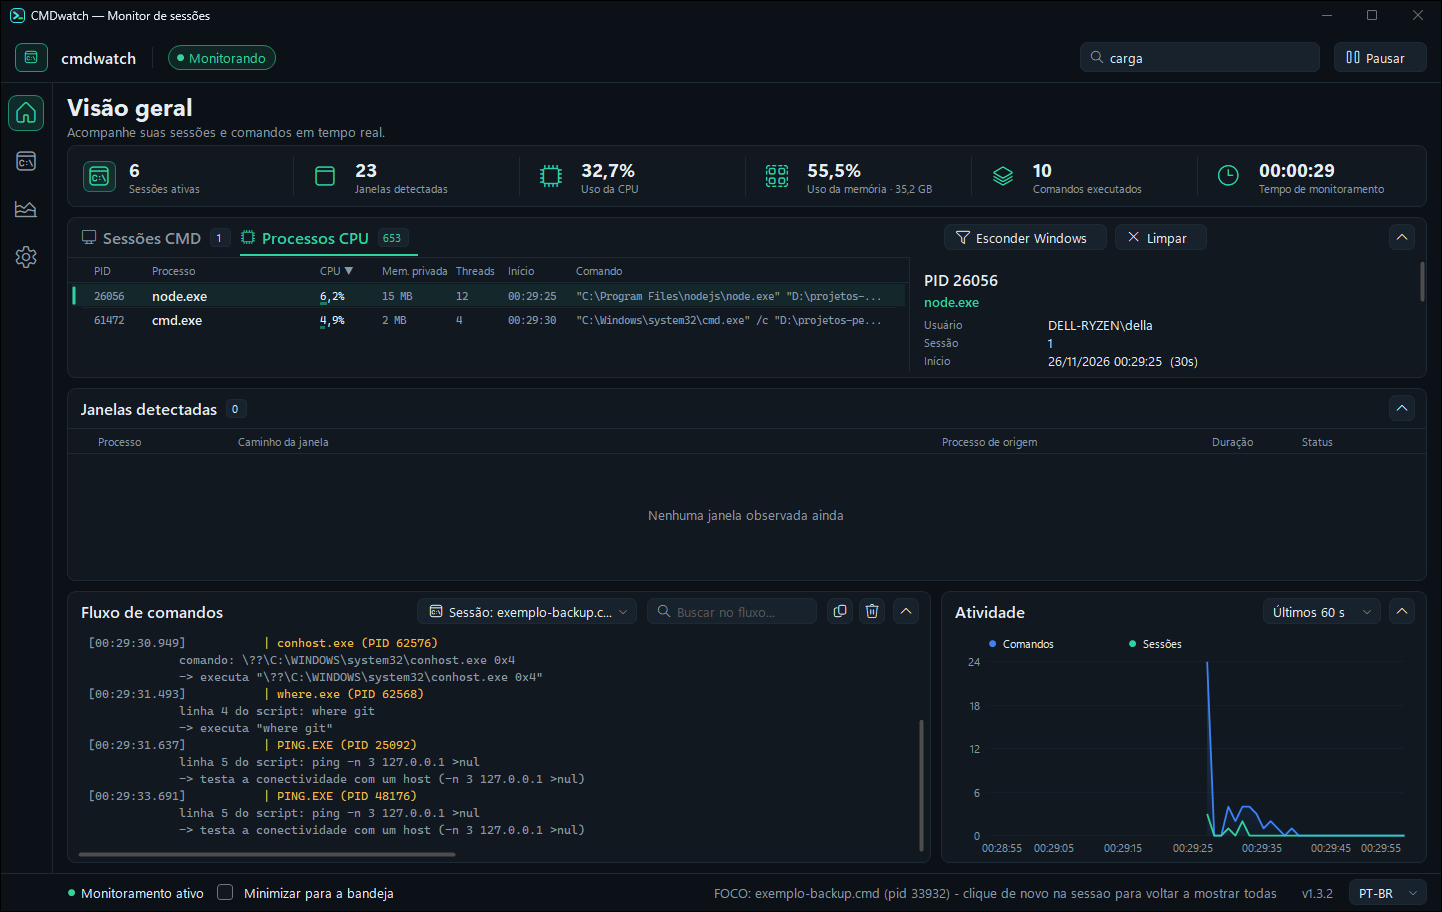
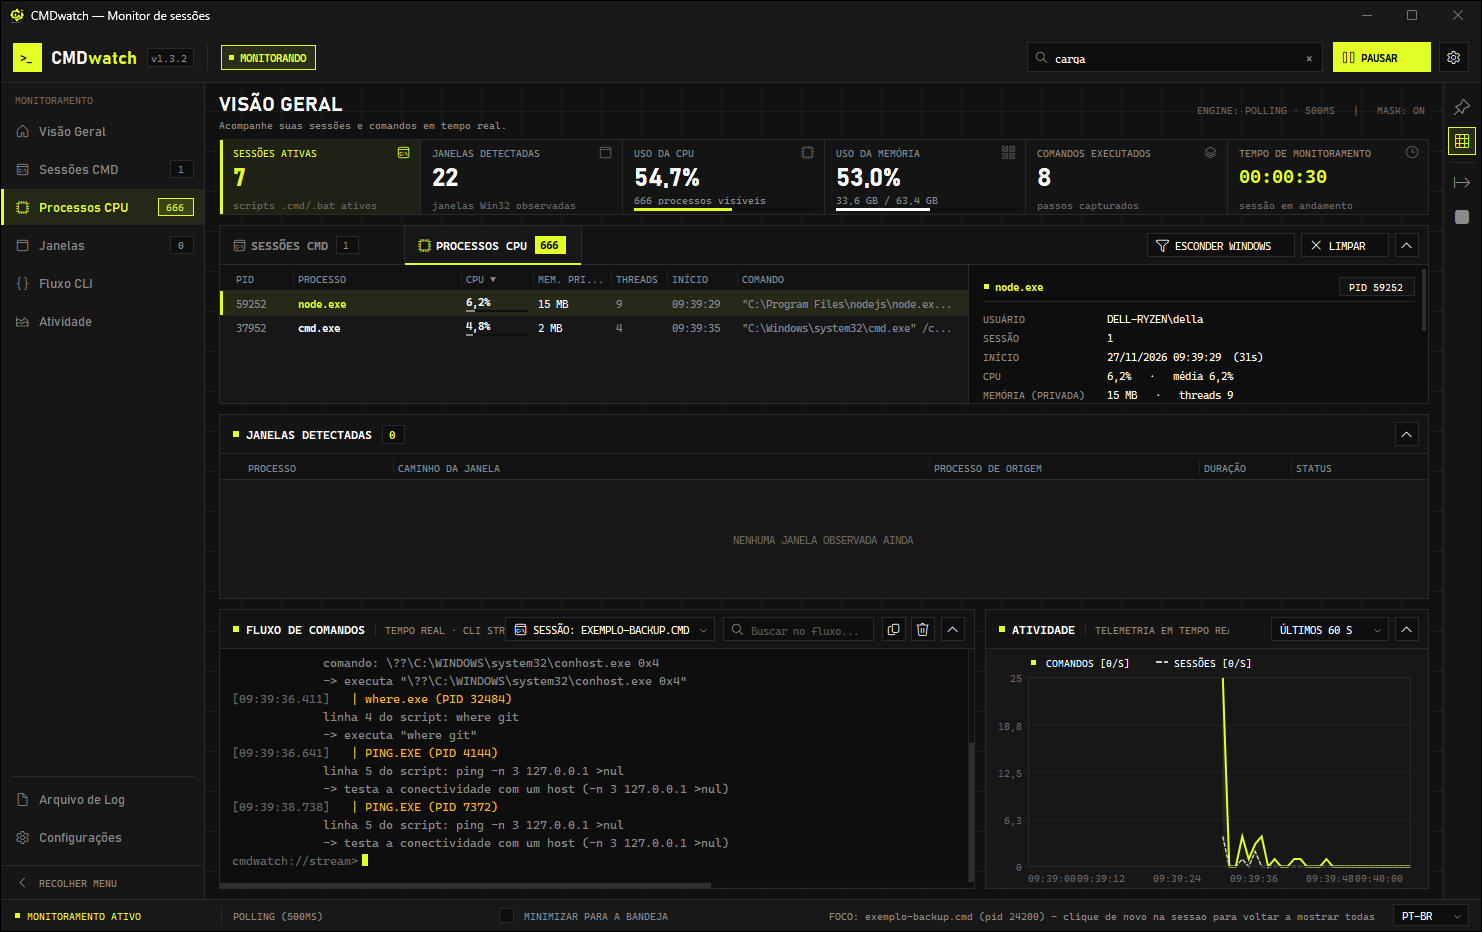
docs: README com a nova interface, icone e capturas regeneradas

diff --git a/README.pt-BR.md b/README.pt-BR.md
@@ -1,13 +1,15 @@
 <div align="center">
 
-# ⚡ CMDWatcher (cmdwatch)
+<img src="assets/icon-preview.png" alt="Ícone do CMDWatcher" width="128" />
+
+# CMDWatcher (cmdwatch)
 
 **Monitor de execução em tempo real e rastreador de janelas e scripts `.cmd`/`.bat` para Windows 10/11**
 
 [![Plataforma](https://img.shields.io/badge/Plataforma-Windows%2010%20%7C%2011-0078D6.svg?style=flat&logo=windows)](https://microsoft.com/windows)
 [![Runtime](https://img.shields.io/badge/Runtime-.NET%20Framework%204.8%20(Nativo)-512BD4.svg?style=flat&logo=dotnet)](https://dotnet.microsoft.com)
 [![Linguagem](https://img.shields.io/badge/Linguagem-C%23-239120.svg?style=flat&logo=csharp)](https://docs.microsoft.com/dotnet/csharp/)
-[![Binário](https://img.shields.io/badge/Binário-EXE%20Único%20(~600KB)%20%7C%20Portátil-success.svg?style=flat)](https://github.com/dellanio/cmdwatch/releases)
+[![Binário](https://img.shields.io/badge/Binário-EXE%20Único%20(~370KB)%20%7C%20Portátil-success.svg?style=flat)](https://github.com/dellanio/cmdwatch/releases)
 [![Privilégios](https://img.shields.io/badge/Privilégios-Sem%20Admin%20Obrigatório-blue.svg?style=flat)](https://github.com/dellanio/cmdwatch)
 [![Licença](https://img.shields.io/badge/Licença-MIT-green.svg?style=flat)](LICENSE)
 
@@ -24,7 +26,7 @@
 <div align="center">
   <table>
     <tr>
-      <td align="center"><b>Painel Gráfico em Tempo Real (Tema Escuro / Neon)</b></td>
+      <td align="center"><b>Painel Industrial em Tempo Real (Tema Escuro, estilo Hoody)</b></td>
       <td align="center"><b>Encerramento Seguro de Processos com Confirmação</b></td>
     </tr>
     <tr>
@@ -109,7 +111,8 @@ O **CMDWatcher** (`cmdwatch`) é um monitor leve e sem dependências para Window
 - 🙈 **Esconder os processos do Windows:** o botão "Esconder Windows" tira da lista tudo que é do sistema (`C:\Windows` e os serviços protegidos) e deixa só o que você instalou por fora — 635 processos viram 356 numa máquina comum, em ~15 ms na primeira vez e nada depois.
 - 📐 **Painel ajustável:** as colunas das tabelas (nas duas abas) e a divisória entre a lista e o detalhe podem ser redimensionadas arrastando com o mouse.
 - 📦 **Instala pelo Scoop e pelo winget:** os dois gerenciadores entregam o executável **sem** o aviso do SmartScreen e sem pedir instalação — o `cmdwatch` fica no `PATH`.
-- 🎨 **Interface Neon Customizada:** Construída em GDI+ puro sem frameworks pesados, com suporte a tema escuro/claro, busca em tempo real, ordenação de colunas e minimização para a Área de Notificação (Tray).
+- 🎨 **Interface Industrial (estilo Hoody):** GDI+ puro, plana e de cantos retos — destaque amarelo ácido `#E2FF26` sobre fundo grafite, bordas estruturais de 1 px, barra lateral retrátil com contadores ao vivo, barra superior com busca global e Pausar/Retomar, e faixa de indicadores (sessões, janelas, CPU, memória, comandos, tempo ativo). Escuro por padrão; há uma variante clara de alto contraste com `CMDWATCH_TEMA=claro`.
+- 🧰 **Utilitários reais, nada simulado:** um trilho à direita e uma gaveta de configurações com **Fixar no topo** (pin), **grade arquitetônica 40×40 px**, **Exportar log** (salva o fluxo atual) / **Abrir log** e **Minimizar para a bandeja**. Cada escolha é lembrada entre execuções.
 
 ---
 
@@ -136,7 +139,7 @@ flowchart TD
     end
 
     subgraph Output ["Interfaces do Usuário"]
-        GUI["Dashboard Visual Neon (WinForms / GDI+)"]
+        GUI["Dashboard Industrial (WinForms / GDI+)"]
         CLI["CLI Host (monitor / analyze / trace)"]
         JSONL["Log Estruturado cmdwatch-log.jsonl"]
     end
@@ -157,7 +160,7 @@ flowchart TD
 ```
 
 - **Linguagem:** C# (.NET Framework 4.8)
-- **UI Toolkit:** Windows Forms com renderização sob demanda GDI+ (Dark / Light)
+- **UI Toolkit:** Windows Forms com renderização GDI+ sob demanda (tema escuro estilo Hoody, variante clara sob pedido) — sem DLLs extras
 - **APIs Nativas:** `kernel32.dll`, `user32.dll`, `ntdll.dll` (`NtQueryInformationProcess`), `advapi32.dll` (ETW)
 - **Build System:** Script autônomo PowerShell (`build.ps1`) com compilador Roslyn embutido
 

diff --git a/README.md b/README.md
@@ -1,13 +1,15 @@
 <div align="center">
 
-# ⚡ CMDWatcher (cmdwatch)
+<img src="assets/icon-preview.png" alt="CMDWatcher icon" width="128" />
+
+# CMDWatcher (cmdwatch)
 
 **Real-time execution monitor & window author tracer for `.cmd`/`.bat` scripts and background processes on Windows 10/11**
 
 [![Platform](https://img.shields.io/badge/Platform-Windows%2010%20%7C%2011-0078D6.svg?style=flat&logo=windows)](https://microsoft.com/windows)
 [![Runtime](https://img.shields.io/badge/Runtime-.NET%20Framework%204.8%20(Built--in)-512BD4.svg?style=flat&logo=dotnet)](https://dotnet.microsoft.com)
 [![Language](https://img.shields.io/badge/Language-C%23-239120.svg?style=flat&logo=csharp)](https://docs.microsoft.com/dotnet/csharp/)
-[![Binary](https://img.shields.io/badge/Binary-Single%20EXE%20(~600KB)%20%7C%20Portable-success.svg?style=flat)](https://github.com/dellanio/cmdwatch/releases)
+[![Binary](https://img.shields.io/badge/Binary-Single%20EXE%20(~370KB)%20%7C%20Portable-success.svg?style=flat)](https://github.com/dellanio/cmdwatch/releases)
 [![Privileges](https://img.shields.io/badge/Privileges-No%20Admin%20Required-blue.svg?style=flat)](https://github.com/dellanio/cmdwatch)
 [![License](https://img.shields.io/badge/License-MIT-green.svg?style=flat)](LICENSE)
 
@@ -24,7 +26,7 @@
 <div align="center">
   <table>
     <tr>
-      <td align="center"><b>Modern Real-Time Neon Dashboard (Dark Theme)</b></td>
+      <td align="center"><b>Industrial Real-Time Dashboard (Dark, Hoody-style)</b></td>
       <td align="center"><b>Safe Process Termination with PID Guard</b></td>
     </tr>
     <tr>
@@ -109,7 +111,8 @@ With the widespread adoption of **autonomous AI agents, background automation sc
 - 🙈 **Hide the Windows processes:** the "Hide Windows" button takes everything from the system out of the list (`C:\Windows` and the protected services) and leaves only what you installed yourself — 635 processes become 356 on a normal machine, in ~15 ms the first time and nothing after that.
 - 📐 **Adjustable panel:** the table columns (in both tabs) and the divider between the list and the detail can be resized by dragging with the mouse.
 - 📦 **Installs through Scoop and winget:** both package managers deliver the executable **without** the SmartScreen warning and without an installer — `cmdwatch` ends up on the `PATH`.
-- 🎨 **Custom Neon UI:** Lightweight GDI+ rendering with Dark and Light themes, real-time search, sortable columns, and background minimization to the Windows System Tray.
+- 🎨 **Industrial UI (Hoody-style):** flat, square-cornered GDI+ interface — acid-yellow `#E2FF26` accent on charcoal, 1 px structural borders, a collapsible sidebar with live counters, a top bar with global search and Pause/Resume, and a stat strip (sessions, windows, CPU, memory, commands, uptime). Dark by default; a high-contrast light variant is available with `CMDWATCH_TEMA=claro`.
+- 🧰 **Real utilities, nothing simulated:** a right-hand rail and a settings drawer with **Always on top** (pin), the **40×40 px architectural grid** toggle, **Export log** (saves the current stream) / **Open log**, and **Minimize to tray**. Every choice is remembered between runs.
 
 ---
 
@@ -136,7 +139,7 @@ flowchart TD
     end
 
     subgraph Output ["User Interfaces & Storage"]
-        GUI["Modern Neon Dashboard (WinForms / GDI+)"]
+        GUI["Industrial Dashboard (WinForms / GDI+)"]
         CLI["CLI Host (monitor / analyze / trace)"]
         JSONL["Structured cmdwatch-log.jsonl"]
     end
@@ -157,7 +160,7 @@ flowchart TD
 ```
 
 - **Language:** C# (.NET Framework 4.8)
-- **UI Toolkit:** Pure Windows Forms with custom GDI+ drawing (Dark / Light)
+- **UI Toolkit:** Pure Windows Forms with custom GDI+ drawing (Hoody-style dark theme, light variant on request) — no extra DLLs
 - **Native APIs:** `kernel32.dll`, `user32.dll`, `ntdll.dll` (`NtQueryInformationProcess`), `advapi32.dll` (ETW)
 - **Build System:** Self-bootstrapping PowerShell script (`build.ps1`) using Roslyn compiler
 
